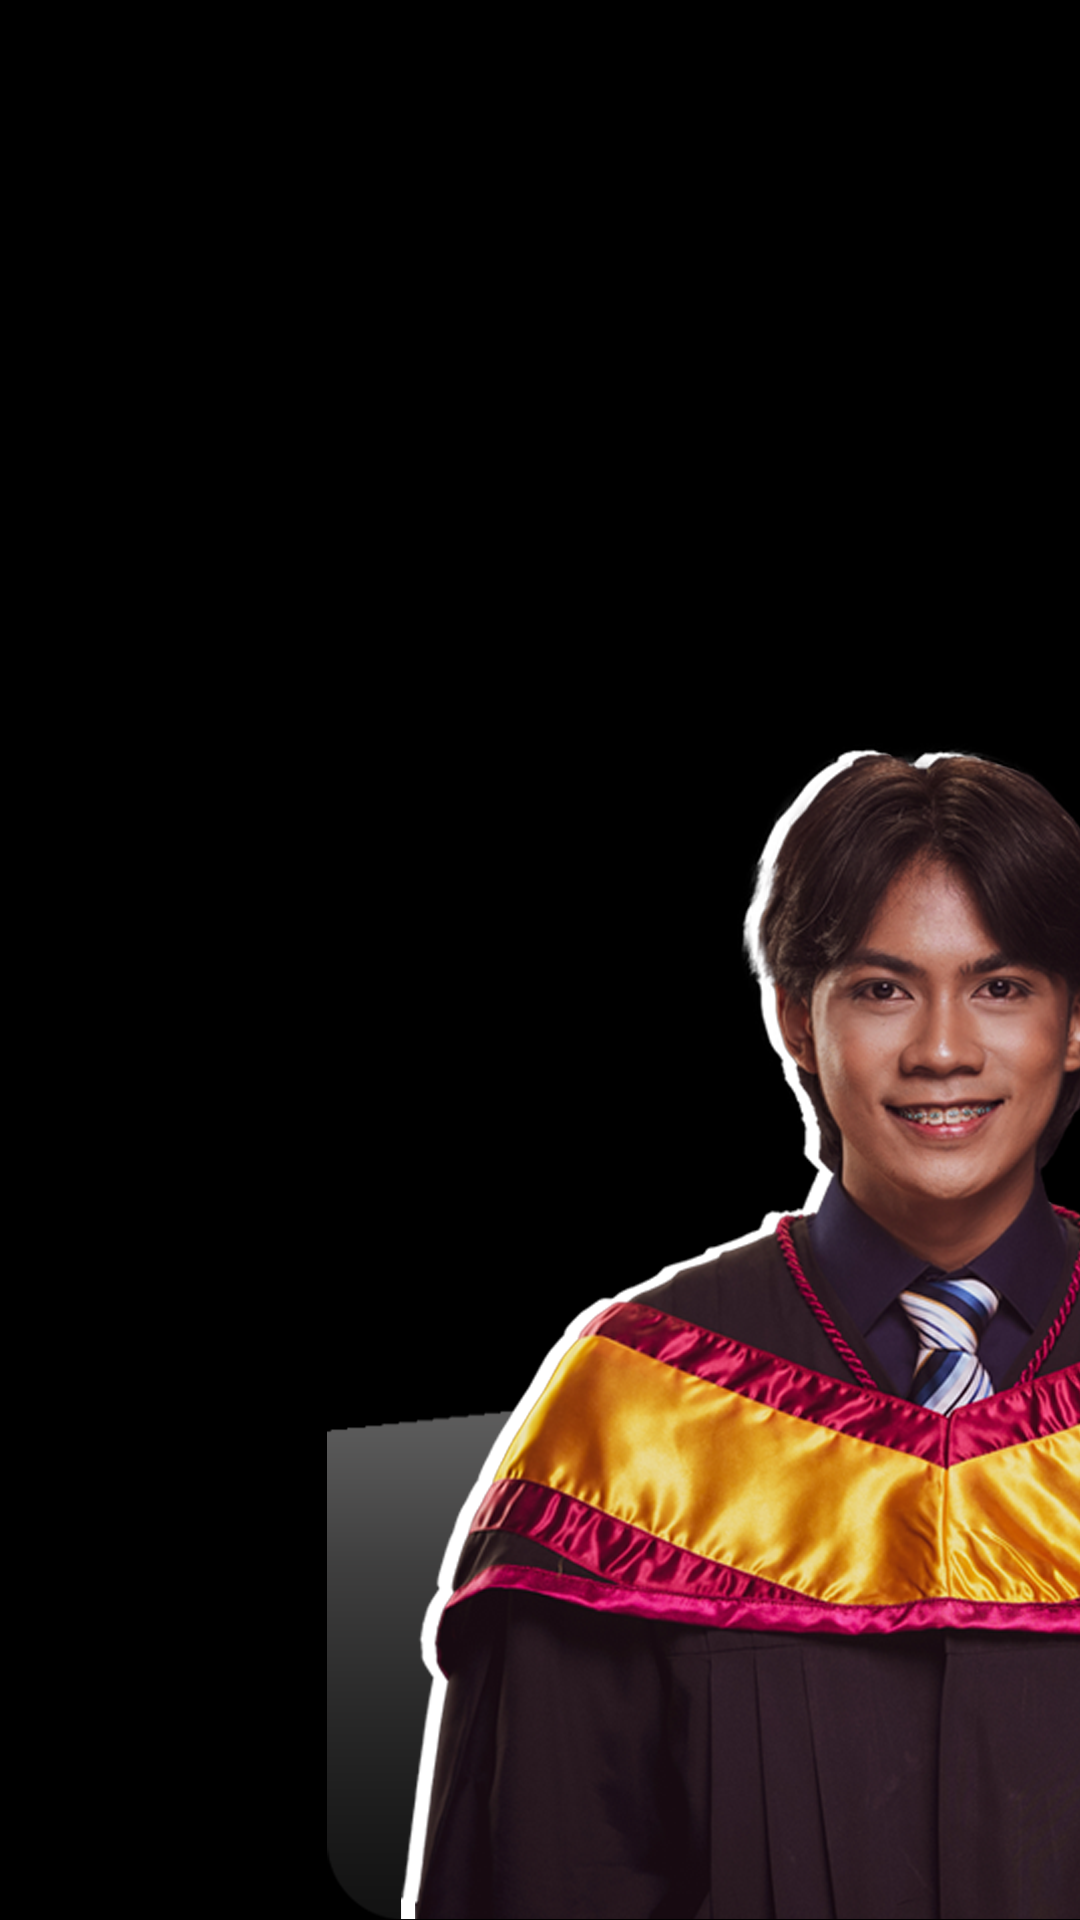
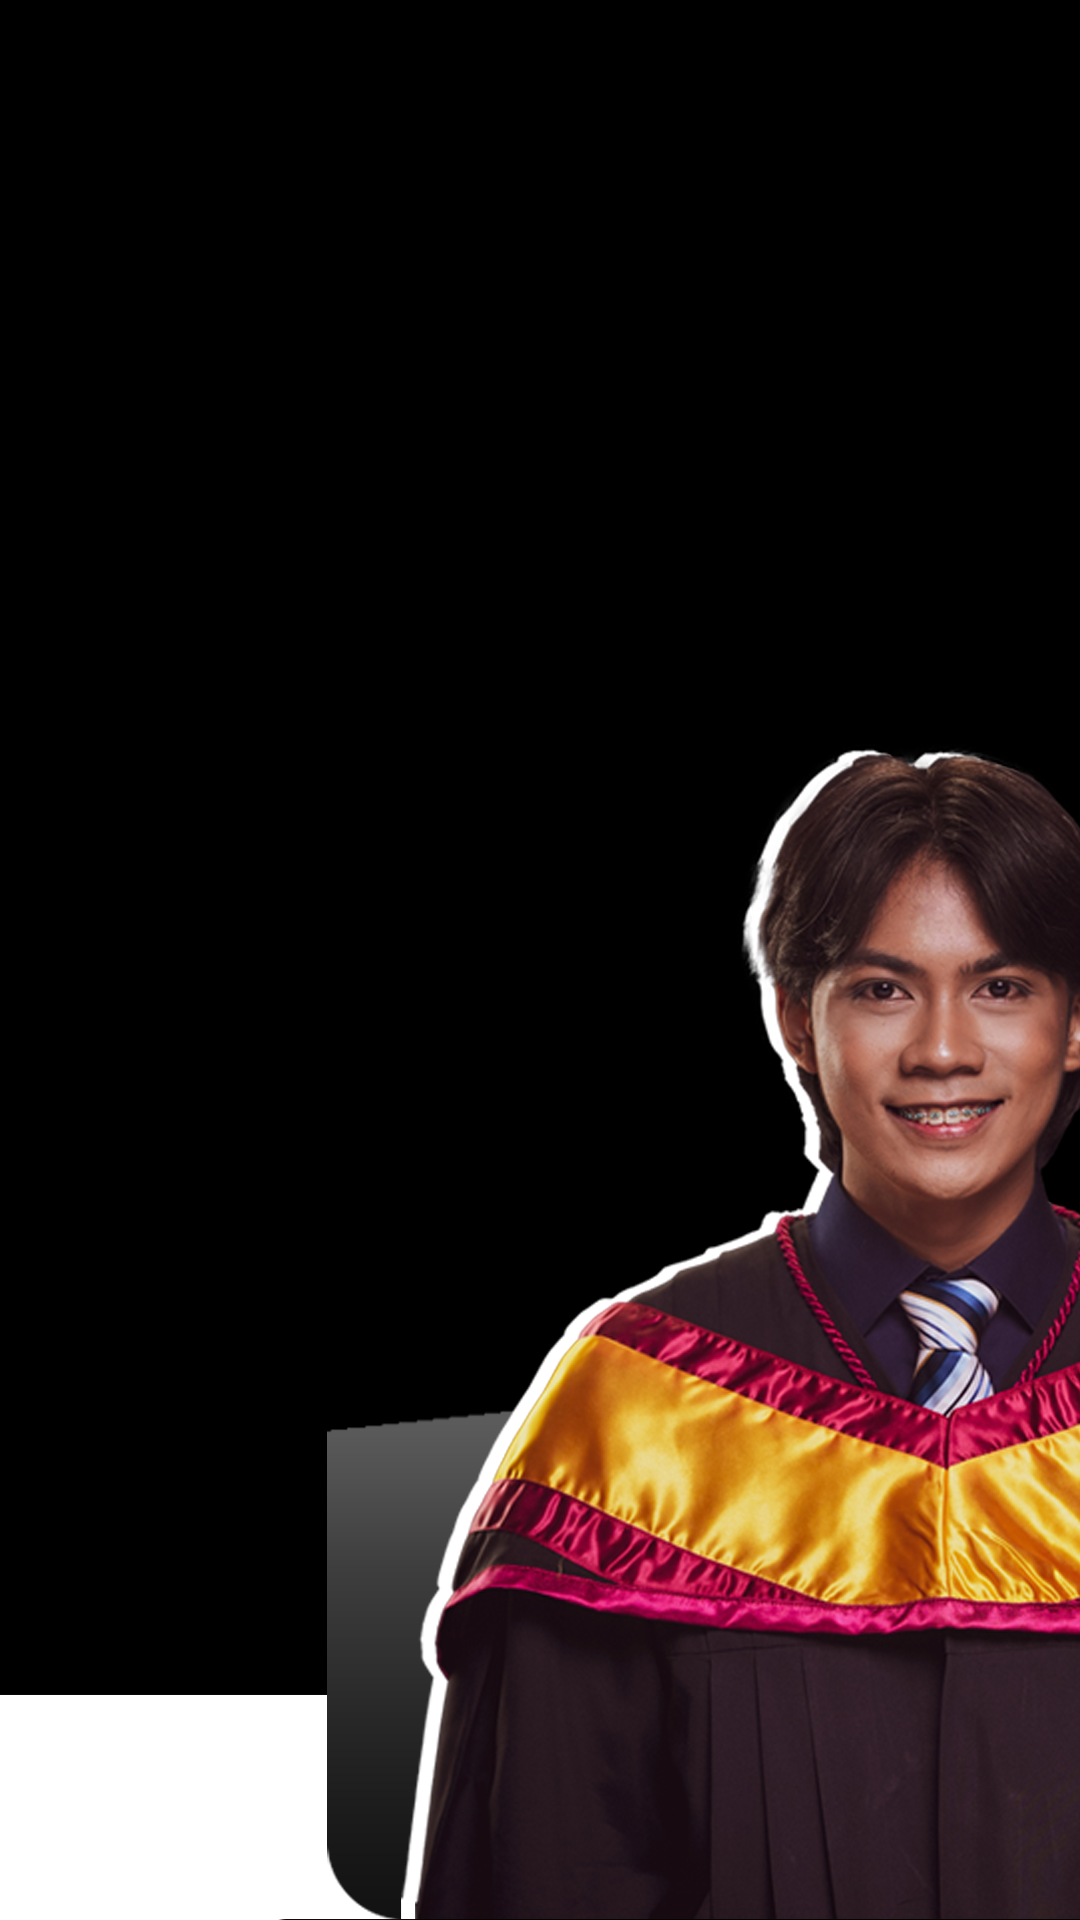
modified phone background image

Changed region(s): [[0.0, 0.875, 0.3361, 1.0]]

diff --git a/style.css b/style.css
@@ -9,6 +9,7 @@
     --primary-color: #080808;
     --secondary-color: #f0ecec;
     --background-img: url(images/background.png);
+    --phone-background-img: url(images/phone-background.png);
 }
 
 html{
@@ -23,6 +24,7 @@ body{
     --primary-color: #f0ecec;
     --secondary-color: #080808;
     --background-img: url(images/background_white.png);
+    --phone-background-img: url(images/phone-background-white.png);
 }
 #logo{
     width: 140px;
@@ -423,7 +425,7 @@ nav .fa-solid{
 }
 @media only screen and (max-width: 600px){
     #header{
-        background-image: url(images/phone-background.png);
+        background-image: var(--phone-background-img);
     }
     .header-text{
         margin-top: 100%;
